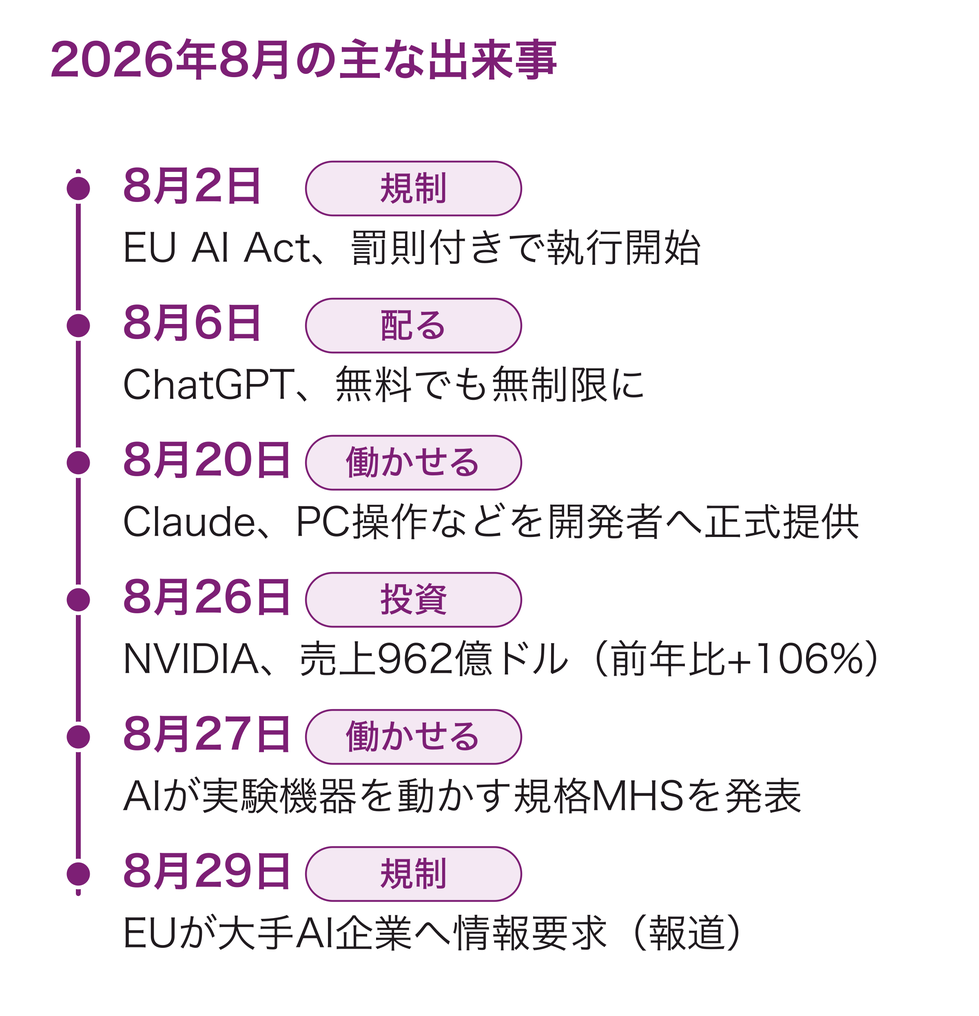
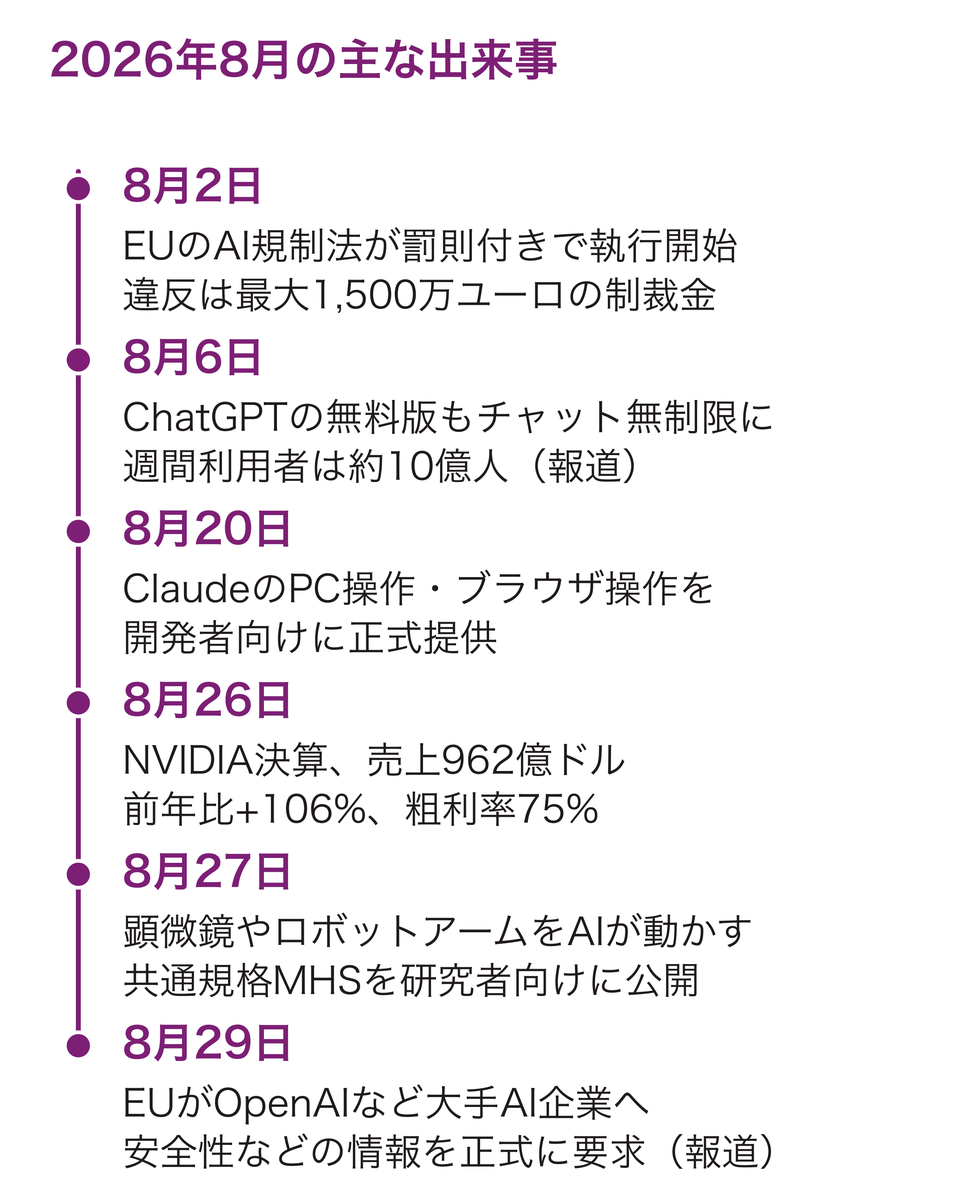
feat(T-M8-437): AIニュース記事の時系列図を具体化、Claude Code 記事を「結論＝要約」で簡潔化、記事作成スキルを読者目線で整理
- 時系列図: 「規制」「配る」等の分類札を外し、日付＋具体的な2行（制裁金額・利用者数・粗利率など）に。alt も同内容
- Claude Code 記事: 結論を「主張→4ファイルの表→日々の往復→入手方法」の要約に組み替え、「4つの道具」節を統合、
  重複（緑でも壊れる話・要決定・報告と画面の確認・README と同文の手順）を削除。約12,000字→約9,900字。
  事実整合（手順書はプラグインでは置かれない・検査2本＋脆弱性1本・/init 製 CLAUDE.md の例外・.mcp.json の質問）を反映
- blog-write: 手順順に整理（114→95行）。title は読者のメリット＋注目のワード（数字は実測か出典のあるもの）、
  結論＝記事の要約、読者目線で具体的・簡潔・構造的、の指針を追加。旧版との突き合わせで落ちた規則を復元
- blog/README.md: title の指針と時系列図の規則を揃える

Claude-Session: https://claude.ai/code/session_018vY12Wqfo3kpqDCkTPaVnk

diff --git a/.claude/skills/blog-write/SKILL.md b/.claude/skills/blog-write/SKILL.md
@@ -6,109 +6,90 @@ model: inherit
 
 # blog-write：テーマを掘って下書きを書く
 
-テーマや参考URL（両方でもよい）を受け取り、**調べて → 固有の学びを1つ決めて → 書く**。成果物は `blog/drafts/<slug>.md` の下書き1本。形式の正本は `blog/README.md`（先に読む）、実例は `blog/published/hello-exos-ai-blog.md`。
-**このスキルは公開しない。** `draft: true` のまま保存して終わる。`draft` を外してコミットするのは `/blog-publish`。
+テーマや参考URLを受け取り、**調べる → 学びを1つ決める → 読者目線で書く → 図とアイキャッチを作る → 2周見直す**。成果物は `blog/drafts/<slug>.md` の下書き1本（形式の正本は `blog/README.md`。先に読む）。
+**公開はしない。** `draft: true` のまま終える（公開は `/blog-publish`）。
 
-## 手順
+## 0. 入力
 
-### 0. 入力を受け取る（無ければ先にヒアリング）
-
-**引数が無い（または曖昧な）ときは、書き始める前に次の2点を1回のメッセージでまとめて聞く**（小出しにしない・T-M8-193）:
-
-1. **テーマ** — 何について書くか（1行でよい）
-2. **参照リンク** — 参考にしてほしいURL（任意・複数可・「なし」も可）
-
-回答が来たら下の表に従って進める。引数でテーマやURLが渡されていればヒアリングは飛ばす。
+引数が無い・曖昧なら、**テーマ**（1行）と**参照リンク**（任意・複数可・「なし」も可）を1回のメッセージでまとめて聞く。引数で渡されていれば聞かない。
 
 | 入力 | 扱い |
 |---|---|
-| テーマ（自由文） | 「誰が・何に困っていて・読後に何ができるか」を1行にして範囲を絞る |
-| 参考URL（1つ以上） | WebFetch で読み、**事実・数字・主張だけ**を箇条書きにメモする。文章は写さず、見出し構成もなぞらない |
-| 読めない・薄い | 読めない（403・JS描画・空）か主張を1つも取れないURLは引用元にしない。**確認は挟まず**報告欄に残してテーマで進める |
+| テーマ | 「誰が・何に困っていて・読後に何ができるか」を1行にして範囲を絞る |
+| 参考URL | WebFetch で読み、事実・数字・主張だけを箇条書きにメモする。文章は写さず、見出し構成もなぞらない |
+| 読めない（403・JS描画・空）か主張を1つも取れないURL | 引用元にしない。確認は挟まず、報告に残してテーマで進める |
 
-`grep -rh "^title:" blog/published blog/drafts` で既存記事の title を一覧し、同じ主張の記事があれば書かずにそのファイルを案内して終わる。
+`grep -rh "^title:" blog/published blog/drafts` で既存記事を見て、同じ主張の記事があれば書かずにそのファイルを案内して終わる。
 
-### 1. 掘る（書く前に5つの問いへ箇条書きで答える。応答に出してよい）
+## 1. 掘る（5つの問いに箇条書きで答える。応答に出してよい）
 
 | 問い | 答えるべきこと |
 |---|---|
-| なぜ | その定説が成り立つ**前提**は何か。前提が崩れるのはどんな場面か |
+| なぜ | 定説が成り立つ前提。前提が崩れる場面 |
 | どうやって | 手順に落とすと何ステップか。どこで詰まるか |
 | 反例 | 逆の結果になった例・やめた方法。成功例だけを並べない |
-| 数字 | 回数・時間・費用・文字数・反応数。**出典か実測日付き**で書き、無いものは「未計測」と書く（作らない） |
-| 自分の運用 | Exos AI で実際にどうしているか。`docs/プロンプト設計書.md`（プロンプトと検証）・`docs/PRD.md`・`tasks/BACKLOG.md`（決定の経緯）・実装を読んで拾う。内部の経緯・未公開機能・費用の内訳は記事に書かない |
+| 数字 | 回数・時間・費用・文字数・反応数。出典か実測日付き。無ければ「未計測」と書く（作らない） |
+| 自分の運用 | Exos AI で実際にどうしているか（`docs/プロンプト設計書.md`・`docs/PRD.md`・`tasks/BACKLOG.md`・実装から拾う）。内部の経緯・未公開機能・費用の内訳は書かない |
 
-答えから**学び（insight）を1文**にする。形は「〜と思われがちだが、実際は〜。理由は〜」。目安は2つ: (1) 実測・反例・条件のどれかに根づいている。(2) 「Exos AI」「自分」を消して他社ブログに貼っても成り立つなら一般論。出てこなければ、不足している実例・数字を**1回にまとめて**運営者に聞く（小出しにしない）。
+答えから**学びを1文**にする（「〜と思われがちだが、実際は〜。理由は〜」）。実測・反例・条件のどれかに根づき、「Exos AI」「自分」を消すと成り立たない固有の内容であること。出てこなければ、不足している実例・数字を1回にまとめて運営者に聞く。
 
-### 2. 構成する
+## 2. 構成する（読者目線）
 
-学びを読者向けの主張1文「○○を△△すると□□になる」にする。これが `description` の元で、`title`・冒頭3行も同じ主張を指す。長さは **1,500〜3,000字**。見出しは `##` を主とし `###` は1段まで。節名はテーマに合わせて変えてよいが、役割と順番は守り、主張に効かない節は削る。
+学びを読者向けの主張1文「○○を△△すると□□になる」にし、`title`・`description`・冒頭3行が同じ主張を指すようにする。
 
-- `## 結論` — 主張と理由を3行以内。最初に書く
-- `## なぜそうなるのか` — 前提と仕組み（§1「なぜ」）
-- `## 具体例` — 手順・プロンプト・設定値・数字（§1「どうやって」「数字」「自分の運用」）
-- `## やらないこと・落とし穴` — 反例と、その条件（§1「反例」）
-- `## まとめ` — 持ち帰り1つ＋読者が次にやること1つ
+- **title（80字以内）**: 読者が得る**メリット**が分かる言葉で、読者の目線から書く。目を留める**注目のワード**（具体的な数字・固有名・「無料」「3コマンド」・「〜しても伸びない」型の意外性）を1つ入れる。数字は実測か出典のあるものだけで、効果の約束になる数字・語は §3 の禁止に従う。運営者の作業名（「〜を実装」「〜の改善」）や内向きの語は使わない。例: 「投稿の時間帯は本当に効くのか」→「投稿時間を変えても伸びない人が、先に直す1つのこと」
+- **description（200字以内・1〜2文）**: 主張と、読後にできることを1文ずつ
+- **本文（1,500〜3,000字が目安。運営者が長さを指定したらそれに従う）**: `##` 主体、`###` は1段まで。節名はテーマに合わせて変えてよいが、役割と順番は守り、主張に効かない節は削る
+  - `## 結論` — 最初に書く。**記事の要約**で、主張・理由・読者が次にすることがこの節だけで分かる（3〜6行。要素が多ければ表にし、表は行数に数えない）
+  - `## なぜそうなるのか` — 前提と仕組み
+  - `## 具体例` — 手順・プロンプト・設定値・数字
+  - `## やらないこと・落とし穴` — 反例と、その条件
+  - `## まとめ` — 持ち帰り1つ＋次にやること1つ
 
-### 3. 書く（文体）
+## 3. 書く
 
-文体は**目安**であって検査ではない（禁止語の機械チェックは無い。2026-08-23に上乗せ分を撤廃）。
-守るのは表の1行目——**自社サービスの効果を約束しない**。ここだけは景品表示法の問題になる。
+読者目線で、**具体的・分かりやすく・簡潔・構造的**に。文体は目安であって検査ではない（禁止語の機械チェックは足さない）。守るのは表の1行目（景品表示法）。
 
 | する | しない |
 |---|---|
-| 1文1内容。専門用語はその場で言い換える | **Exos AI の効果を約束する**（「必ず伸びる」「フォロワー○倍」「保証」「No.1」）。他社事例や一般論の紹介は制限しない |
-| 数字・手順・プロンプト・設定値で具体化する | 具体を書かずに終える |
+| 1文1内容。専門用語は初出でその場で言い換える（読者は Exos AI の中身も開発用語も知らない） | **Exos AI の効果を約束する**（「必ず伸びる」「フォロワー○倍」「保証」「No.1」）。他社事例・一般論の紹介は制限しない |
+| 数字・手順・プロンプト・設定値で具体化する | 具体を書かずに終える。同じことを2か所で言う |
 | 断定には根拠（実測・出典・仕組み）を隣に置く。誤ると読者が損をする話は特に | 根拠のない断定 |
+| 段落は要点1つ。手順は番号付き、比較は表 | 箇条書きだけの節。1段落に要点を3つ詰める |
 | 参考URLは自分の言葉で要約。引用は `> 引用文 — [出典名](URL)` | 段落単位の転載、個人が特定できる情報 |
-| 事実と意見は**語尾で**分ける（「〜と報じられた」「〜による」／「〜と考えている」「〜だと思う」） | 「（意見）」「（事実）」「（筆者の見立て）」のような**注記で分ける**（AIが書いた印象になる。使わない） |
-| 太字は約物の外に置く: `は「**配る**」へ`・`**git**（ギット）は` | `は**「配る」**へ`・`**git（ギット）**は`（「」（）が太字の内側にあると太字にならず `**` が画面に残る。§4 の検証で止まる） |
+| 事実と意見は語尾で分ける（「〜と報じられた」／「〜と考えている」） | 「（意見）」「（事実）」のような注記（AIが書いた印象になる） |
+| 太字は約物の外に置く（`は「**配る**」へ`・`**git**（ギット）は`） | `は**「配る」**へ`・`**git（ギット）**は`（太字にならず `**` が画面に残る。§4 の検証で止まる） |
 
-### 4. 保存して検証する
+## 4. 保存・画像・検証
 
 - slug: 主張を表す英小文字3〜5語をハイフンで（例 `posting-time-is-not-the-lever`）。小文字英数字とハイフンのみ・80字以内。日付・連番は入れない
-- `blog/drafts/<slug>.md` に保存（**下書きフォルダ**。`blog/` 直下や `published/` に置かない・T-M8-193）。front matter に書けるキーは `title`（80字以内）／`description`（200字以内・1〜2文）／`date`（今日 `date +%F`）／`updated`／`draft: true`／`tags`（既存記事と表記を揃える）／`image`（アイキャッチ。次の手順で生成する）の7つだけ（他は検証で弾かれる）
-- 本文は `##` から始める（`#` は書かない）。生HTMLは書かない。画像は `public/blog-images/` に置き `/blog-images/<name>.png` で参照する
-- **アイキャッチを作る**: `npm run blog:eyecatch -- <slug>`。1200×630 の PNG（題名・タグ入り）が `public/blog-images/eyecatch/<slug>.png` にでき、front matter へ `image:` が書き足される。**生成した PNG を Read で開き**、日本語が □（豆腐）になっていないか・題名が切れていないかを見る。`title` を変えたら実行し直す
-- **図を描く**: 本文に**手順・比較・時系列・構造**の説明があれば図にする（目安は「読者が頭の中で表や矢印を組み立てないと分からない段落」。文章は残してよいが、図が主で文章は補足にする）。作り方:
-  1. SVG を `blog/diagrams/<slug>-<name>.svg` に書く。幅 1200、`font-family="Hiragino Sans, Noto Sans JP, sans-serif"`、色はブランドの `#7d1f75`（線・見出し・矢印）と `#f4e8f3`（塗り）を基調に白地。要素は3〜6個に絞り、矢印の向きと順番が一目で分かる形にする。**図は本文幅（約720px）とスマホ（375px）に縮小されて表示される**（0.6倍・0.31倍。SNS運用者はスマホ閲覧が多い）ので、次を守る（読者レビュー 2026-09-05）:
-     - **最小の文字は 40px 以上**（日付・補足の小さい文字も。スマホで 12px になる下限。22px だとスマホで約7pxになり読めない。手順2の `blog:diagram` が下回ると止める）
-     - **長い説明文は図に入れず本文へ**（1行 20 字まで。時系列は「日付＋タグ」と短文の2段に折り、説明の続きは本文に任せる）。事実を並べる図に「まだ加速」のような意見を混ぜない（意見は深掘りへ）
-     - **横に3つ以上並べない**（縦積みか2列まで。横4列は縮小後に1箱が約90pxになる）。手順が多いときは縦に流し、比較は上下に積む
-     - 注記に「700px」「幅2px」のような**実寸を書かない**（縮小後の画面では合わなくなる）。「報告の棒はいいねの468倍の長さ」のように比率で書く
-  2. `npm run blog:diagram -- blog/diagrams/<slug>-<name>.svg <slug>-<name>.png` で `public/blog-images/<slug>-<name>.png`（2倍密度）にする
-  3. 本文へ `![図の説明](/blog-images/<slug>-<name>.png)` で貼る。alt は「図1」ではなく図が伝える内容を1文で書く（読み上げでも意味が通るように）
-  4. PNG を Read で開き、豆腐・文字の重なり・はみ出しを確認する。続けて、手順2が出力する**スマホ幅（375px）のプレビュー**（一時ディレクトリ。パスは実行結果に出る）も Read で開き、拡大せずに文字が読めるかを見る。読めなければ縦積みにするか文字を大きくして1からやり直す
-- `npm run blog:check -- <slug>.md` を実行し、`📝 <slug>.md  下書き（draft: true）` と末尾の `✅ 不備なし` を確認する。`❌` なら表示された理由を直して再実行。**太字にならない `**`**（「」（）などの約物が太字の内側にある書き方）はここで行番号つきで止まる——約物を太字の外へ出す（`は**「配る」**へ` → `は「**配る**」へ`）
+- `blog/drafts/<slug>.md` に保存（`blog/` 直下や `published/` に置かない）。front matter は `title`／`description`／`date`（今日 `date +%F`）／`updated`／`draft: true`／`tags`（既存と表記を揃える）／`image` の7つだけ（他は検証で弾かれる）。本文は `##` から始め（`#` は書かない）、生HTMLは書かない。画像は `public/blog-images/` に置き `/blog-images/<name>.png` で参照する
+- **アイキャッチ**: `npm run blog:eyecatch -- <slug>` → `public/blog-images/eyecatch/<slug>.png` ができ、`image:` が書き足される。PNG を Read で開き、豆腐（□）・題名の切れを見る。`title` を変えたら作り直す
+- **図**: 手順・比較・時系列・構造の説明（読者が頭の中で表や矢印を組み立てないと分からない段落）は図にする。図が主、文章は補足
+  1. SVG を `blog/diagrams/<slug>-<name>.svg` に書く。幅 1200、`font-family="Hiragino Sans, Noto Sans JP, sans-serif"`、色は `#7d1f75`（線・見出し・矢印）と `#f4e8f3`（塗り）、白地。要素は3〜6個、矢印の向きと順番が一目で分かる形
+  2. 本文幅（約720px）とスマホ（375px）に縮小される前提で描く: **最小の文字 40px 以上**（日付・補足の小さい文字も。`blog:diagram` が下回ると止める）、**1行 20 字まで**（説明の続きは本文へ。時系列は「日付」と「具体的な短文1〜2行」にし、「規制」「配る」のような分類語だけの札は置かない）、**横に3つ以上並べない**（縦積みか2列。手順は縦に流し、比較は上下に積む）、実寸の注記（「700px」など）を書かず比率で書く、事実の図に意見を混ぜない
+  3. `npm run blog:diagram -- blog/diagrams/<slug>-<name>.svg <slug>-<name>.png` → `public/blog-images/`（2倍密度）にでき、`![図が伝える内容を1文で](/blog-images/<slug>-<name>.png)` で貼る（alt は「図1」ではなく、読み上げでも意味が通る1文）
+  4. PNG と、スマホ幅（375px）プレビュー（一時ディレクトリ。パスは実行結果に出る）を Read で開き、豆腐・重なり・はみ出しが無く、拡大せずに文字が読めるか見る。読めなければ縦積みか文字拡大で1からやり直す
+- `npm run blog:check -- <slug>.md` で `📝 <slug>.md  下書き（draft: true）` と `✅ 不備なし` を確認する。`❌` なら理由を直して再実行（太字にならない `**` は行番号つきで止まる）
 
-### 5. 自己チェックして報告する（全部 Yes になるまで直す）
+## 5. セルフレビュー（必ず2周。全部 Yes になるまで直す）
 
-**セルフレビューは必ず2周する**（1周で両方を見ようとすると片方が抜ける・運営者の依頼 2026-09-05）:
-
-1. **1周目＝事実と構成**: 下のチェックの前半（学び・結論・具体例・約束・出典・長さ）。数字と出典を1つずつ元に当たり、見出しだけで流れが追えるかを見る
-2. **2周目＝読み物として**: 本文を**頭から声に出して読むつもりで**通し、つっかえる文・長すぎる文・意味が2通りに取れる文と、**前提知識が無いと分からない箇所（ハイコンテキスト）**を直す。読者は Exos AI の中身も開発の用語も知らない前提で、初出の用語はその場で言い換える。下の「AIっぽさ」の項目はこの周で見る
-
-- [ ] §1 の学びが本文に**1文で**入っている（読者がその1文だけ覚えて帰れる）
-- [ ] 結論が冒頭にあり、見出しだけで流れが追える。`title`・`description`・冒頭3行が同じ主張を指す
+**1周目＝事実と構成**（数字と出典を1つずつ元に当たる。見出しだけで流れが追えるか）
+- [ ] 学びが本文に1文で入っている。`## 結論` だけ読めば要点が全部つかめる
+- [ ] `title` は読者のメリットが分かり、注目のワードが1つある。`title`・`description`・冒頭3行が同じ主張を指す
 - [ ] 具体例（手順・数字・プロンプト・設定値）が1つ以上ある。未計測は未計測と書いてある
-- [ ] 自社サービスの効果を約束していない（曖昧語の grep は不要・2026-08-23に撤廃）
-- [ ] 誤っていたら読者に損をさせる断定に出典か実測が付き、事実と意見が語尾で分かれている。参考URLの文章を写していない
-- [ ] `title` 80字以内・`description` 200字以内・本文 1,500〜3,000字
-- [ ] 図にすべき箇所（手順・比較・時系列・構造）を図にし、アイキャッチ（`image`）がある（§4）
-- [ ] **AIっぽさを除いた**。次に当てはまる箇所を書き直した:
-  - 太字にならない `**` が残っている（`npm run blog:check` で止まる。約物を太字の外へ）
-  - 「（意見）」「（事実）」のような注記で事実と意見を分けている → **注記は使わない**。語尾で示す（「〜と考えている」「〜と報じられた」）
-  - 「〜することができます」「重要なのは」「まとめると」「言い換えれば」「〜と言えるでしょう」の多用（各1回まで。言い切りに直す）
-  - 段落の冒頭で直前の見出しを言い直している（見出しの次の文は本題から始める）
-  - 太字が多すぎる（1段落に2つまで。強調が増えるほど何も強調されない）
-  - 箇条書きだけで文章の無い節（項目の間の「なぜ」が消える。文章で1つつなぐ）
-  - 「——」（ダッシュ）が記事全体で3回以上ある（句点で切るか、括弧に）
-  - 読者が知らない内部用語（タスクID・スキル名・ファイル名・機能の内部名・社内の略語）を説明なしに使っている
+- [ ] Exos AI の効果を約束していない。誤ると読者が損をする断定に出典か実測が付き、事実と意見が語尾で分かれている。参考URLの文章を写していない
+- [ ] 図にすべき箇所を図にし、アイキャッチ（`image`）がある。`title` 80字以内・`description` 200字以内・本文 1,500〜3,000字（運営者の指定があればそれ）
 
-報告: 作ったファイル（記事・アイキャッチ・図）／記事の主張1行／確認してほしい点（未計測の箇所・運営者しか知らない実例・読めなかったURL）／次に実行するコマンド `/blog-publish <slug>.md`。
+**2周目＝読み物として**（頭から声に出して読むつもりで通す）
+- [ ] つっかえる文・長すぎる文・2通りに取れる文・前提知識が要る箇所（ハイコンテキスト）を直した。初出の用語はその場で言い換えた
+- [ ] 同じことを2か所で言っていない。無くても成り立つ補足を削った
+- [ ] AIっぽさが無い: 「（意見）」型の注記（語尾で示す）／「〜することができます」「重要なのは」「まとめると」「言い換えれば」「〜と言えるでしょう」の多用（各1回まで。言い切りに直す）／見出しの言い直しから始まる段落（本題から始める）／太字の多用（1段落2つまで）／箇条書きだけの節（間の「なぜ」を文章で1つつなぐ）／「——」が3回以上（句点で切るか括弧に）／説明なしの内部用語（タスクID・スキル名・ファイル名・機能の内部名・略語）／太字にならない `**`（`blog:check` で止まる）
+
+報告: 作ったファイル（記事・アイキャッチ・図）／記事の主張1行／確認してほしい点（未計測・運営者しか知らない実例・読めなかったURL）／次に実行するコマンド `/blog-publish <slug>.md`。
 
 ## ルール
 
-- **公開しない。** `draft` を外さない。コミットも `git add` もしない。
-- 1回で書くのは1記事。テーマが2つあれば分けて、どちらを先にするか聞く。
-- 記事・報告は日本語。コードブロック内のプロンプトや設定値は実物のまま載せる。
+- 公開しない。`draft` を外さない。コミットも `git add` もしない
+- 1回で書くのは1記事。テーマが2つあれば分けて、どちらを先にするか聞く
+- 記事・報告は日本語。コードブロック内のプロンプト・設定値は実物のまま載せる

diff --git a/blog/README.md b/blog/README.md
@@ -39,10 +39,11 @@ image: /blog-images/eyecatch/x-prompt-basics.png
 | `tags` | | `[a, b]` または `a, b` |
 | `image` | | アイキャッチ画像。`/blog-images/…` のサイト内パス（png/jpg/jpeg/webp/svg）。記事ヘッダ・一覧のサムネイル・SNS共有カード（OGP）に出る。**`npm run blog:eyecatch -- <slug>`** が 1200×630 の画像を `public/blog-images/eyecatch/<slug>.png` に作り、この行も書き足す（題名を変えたら作り直す） |
 
+- `title` は読者が得るメリットが分かる言葉で、目を留める注目のワード（具体的な数字・固有名・意外性）を1つ入れる。`description` は主張と読後にできることを1文ずつ。本文は「結論＝記事の要約」から始め、読者目線で具体的・簡潔・構造的に（詳しくは `/blog-write` §2〜3）。
 - ファイル名は**小文字英数字とハイフン**だけ（URLになる。先頭はハイフン不可・80文字まで）。`README.md` と `_` 始まりは記事にならない。
 - 画像は `public/blog-images/` に置き、本文から `/blog-images/ファイル名.png` で参照する（**置き忘れは不備として公開されない**）。外部の `https://` 画像も表示できる。画像には必ず説明文（`![説明](…)`）を付ける。
 - **太字の `**` は「」（）、。などの約物の内側に入れない。** `は**「配る」**へ` のように約物が太字の内側にあると太字にならず、`**` が画面にそのまま残る（Markdown の規則。`npm run blog:check` が行番号つきで止める）。`は「**配る**」へ` と約物を外に出す。
-- 図（手順・比較・時系列・構造の説明）は SVG を `blog/diagrams/<slug>-<name>.svg` に書き、`npm run blog:diagram -- blog/diagrams/<slug>-<name>.svg <slug>-<name>.png` で `public/blog-images/` に PNG 化して貼る（幅 1200・色は `#7d1f75` と `#f4e8f3`）。**本文幅（約720px）とスマホ（375px）に縮小される前提で描く**：横に3つ以上並べない（縦積みか2列まで）、最小の文字は 40px 以上（日付・補足も。スマホで 12px になる下限。`blog:diagram` が下回ると止める）、長い説明文は図に入れず本文へ（1行 20 字まで。時系列は「日付＋タグ」と短文の2段に折る）、注記に「700px」のような実寸を書かない（縮小後の画面では合わなくなる。「報告の棒はいいねの468倍」のように比率で書く）。`blog:diagram` がスマホ幅（375px）のプレビューも一時ディレクトリに書くので、それを開いて文字が読めるか確かめる。
+- 図（手順・比較・時系列・構造の説明）は SVG を `blog/diagrams/<slug>-<name>.svg` に書き、`npm run blog:diagram -- blog/diagrams/<slug>-<name>.svg <slug>-<name>.png` で `public/blog-images/` に PNG 化して貼る（幅 1200・色は `#7d1f75` と `#f4e8f3`）。**本文幅（約720px）とスマホ（375px）に縮小される前提で描く**：横に3つ以上並べない（縦積みか2列まで）、最小の文字は 40px 以上（日付・補足も。スマホで 12px になる下限。`blog:diagram` が下回ると止める）、長い説明文は図に入れず本文へ（1行 20 字まで。時系列は「日付」と「具体的な短文1〜2行」にし、「規制」「配る」のような分類語だけの札は置かない）、注記に「700px」のような実寸を書かない（縮小後の画面では合わなくなる。「報告の棒はいいねの468倍」のように比率で書く）。`blog:diagram` がスマホ幅（375px）のプレビューも一時ディレクトリに書くので、それを開いて文字が読めるか確かめる。
 - 文章は人が書いた読み物として自然に。「（意見）」のような注記は付けず語尾で示す（「〜と考えている」「〜と報じられた」）。「〜することができます」「重要なのは」「まとめると」の多用、過剰な太字、「——」の多用を避け、読者が知らない内部用語は説明してから使う。
 - 生のHTMLタグは表示されない（安全のため）。
 - `date` は未来の日付でも**すぐ公開される**（予約公開の仕組みは無い。先の日付で出したくなければ `draft: true` のまま置く）。

diff --git a/tasks/BACKLOG.md b/tasks/BACKLOG.md
@@ -6189,6 +6189,14 @@ UI側boolean を壊しても投稿は誤爆しない）。
 - 実装メモ（2026-09-05 完了・運営者の指摘「プラグインやブログは x-system に限らず汎用的なものなので、x-system に関する文言は不要」）: 以前の指示（T-M8-432「簡略化した雛形ではなく実物のスキルを同封」）と両立させるため、手順・表・停止条件はそのまま、固有文言だけを言い換えた派生を `kit/skills/` に置く方式にした（`.claude/skills/` 自体を汎用化すると本リポジトリの手順から固有の教訓が抜ける）。派生の作成はワークフロー〔書く→原文と突き合わせて反証（残存文言・失われた規則・捏造・可読性）→直す〕×11本。二重管理の drift は BUILD.json の元スキルハッシュで検知する（反映不要なら `npm run dev-kit` で記録だけ更新）。配布する検査スクリプトはルートの実物を写すため、コメントの作業ID・日付・固有ファイル名を落とした（挙動は不変）。
 
 
+### T-M8-437: AIニュース記事の時系列図を具体化、Claude Code 記事を「結論＝要約」で簡潔化、記事作成スキルを読者目線で整理 `done`
+- 参照: blog/README.md・.claude/skills/blog-write/SKILL.md・blog/published/ai-news-august-2026.md・blog/published/claude-code-non-engineer-workflow.md / 依存: T-M8-436 / サイズ: S
+- 完了条件:
+  - 「2026年8月の主な出来事」の図に「規制」「配る」等の分類札が無く、各日付の下が具体的な出来事（数字・固有名入り、1行20字以内・2行）になっている。スマホ幅プレビューで読める。alt も同じ内容
+  - Claude Code 記事の `## 結論` だけで、主張・4つのファイルの役割・効く理由・次にやることが分かる。本文は具体例（5原則・検証の表・1日の流れ・使い方の手順）を残したまま短くなっている（`blog:check` 緑）
+  - `/blog-write` に「title は読者のメリット＋注目のワード」「結論＝記事の要約」「読者目線で具体的・簡潔・構造的」の指針があり、旧版の規則・手順・しきい値（文字サイズ・字数・front matter のキー・2周レビュー・AIっぽさの項目）が1つも失われていない。行数は旧版より少ない
+- 実装メモ（2026-09-05 完了・運営者の指摘「図内の文言が分かりにくい」「結論が要約になっていない。深く考えて改善。簡潔に」「スキルにタイトルと読者目線の指針を。スキル自体も簡潔に」）: 図は分類札を外し、日付＋具体的な2行（制裁金額・利用者数・粗利率など本文の数字）にした。記事は結論を「主張→4ファイルの表→効く理由→入手方法」の要約に組み替え、「4つの道具」節を結論へ統合、前提・理由・落とし穴の重複を削って約12,000字→約10,500字（具体例は維持）。スキルは手順順（入力→掘る→構成→書く→保存・画像・検証→2周レビュー→ルール）に整理し、日付・作業IDの経緯注記を落として 114行→95行。旧版との突き合わせで失われた規則が無いことを別エージェントで確認。
+
 ### T-M8-410: 参考アカウントの反映の失敗が画面に出ない（成功扱い・古い「開始が遅れています」・通知文言が削除用） `done`
 - 参照: 要件06 §3.1（反映の進行表示） / 要件04 §14（通知の文言） / 依存: なし / サイズ: S
 - 完了条件:

diff --git a/blog/published/ai-news-august-2026.md b/blog/published/ai-news-august-2026.md
@@ -17,7 +17,7 @@ image: /blog-images/eyecatch/ai-news-august-2026.png
 
 この3つの土台として、AI向けチップへの投資（第6節）も加速している。下の図で「投資」のタグを付けた出来事がそれにあたる。
 
-![2026年8月の主な出来事を日付順に並べた図。8月2日のEU AI Act執行開始（規制）、6日のChatGPT無制限化（配る）、20日のClaudeによるPC操作などの開発者向け正式提供（働かせる）、26日のNVIDIA決算（投資）、27日のMHS発表（働かせる）、29日のEUによる情報要求（規制）](/blog-images/ai-news-august-2026-timeline.png)
+![2026年8月の主な出来事を日付順に並べた図。8月2日にEUのAI規制法が罰則付きで執行開始（違反は最大1,500万ユーロ）、6日にChatGPTの無料版もチャット無制限に（週間利用者は約10億人）、20日にClaudeのPC操作・ブラウザ操作を開発者向けに正式提供、26日にNVIDIA決算で売上962億ドル（前年比+106%、粗利率75%）、27日に顕微鏡やロボットアームをAIが動かす共通規格MHSを公開、29日にEUがOpenAIなど大手AI企業へ安全性などの情報を正式に要求（報道）](/blog-images/ai-news-august-2026-timeline.png)
 
 各ニュースは「何が起きたか」を出典付きで先に書き、そのあとに「深掘り」として筆者の解釈を続ける。出典はできる限り発表元（一次ソース）を使い、直接当たれなかったものは報道名を明記した。難しい言葉は本文中で言い換え、最後に「用語ミニ辞典」を置いたので、結論と気になる節だけ読んでも話は追えるはずだ。
 
